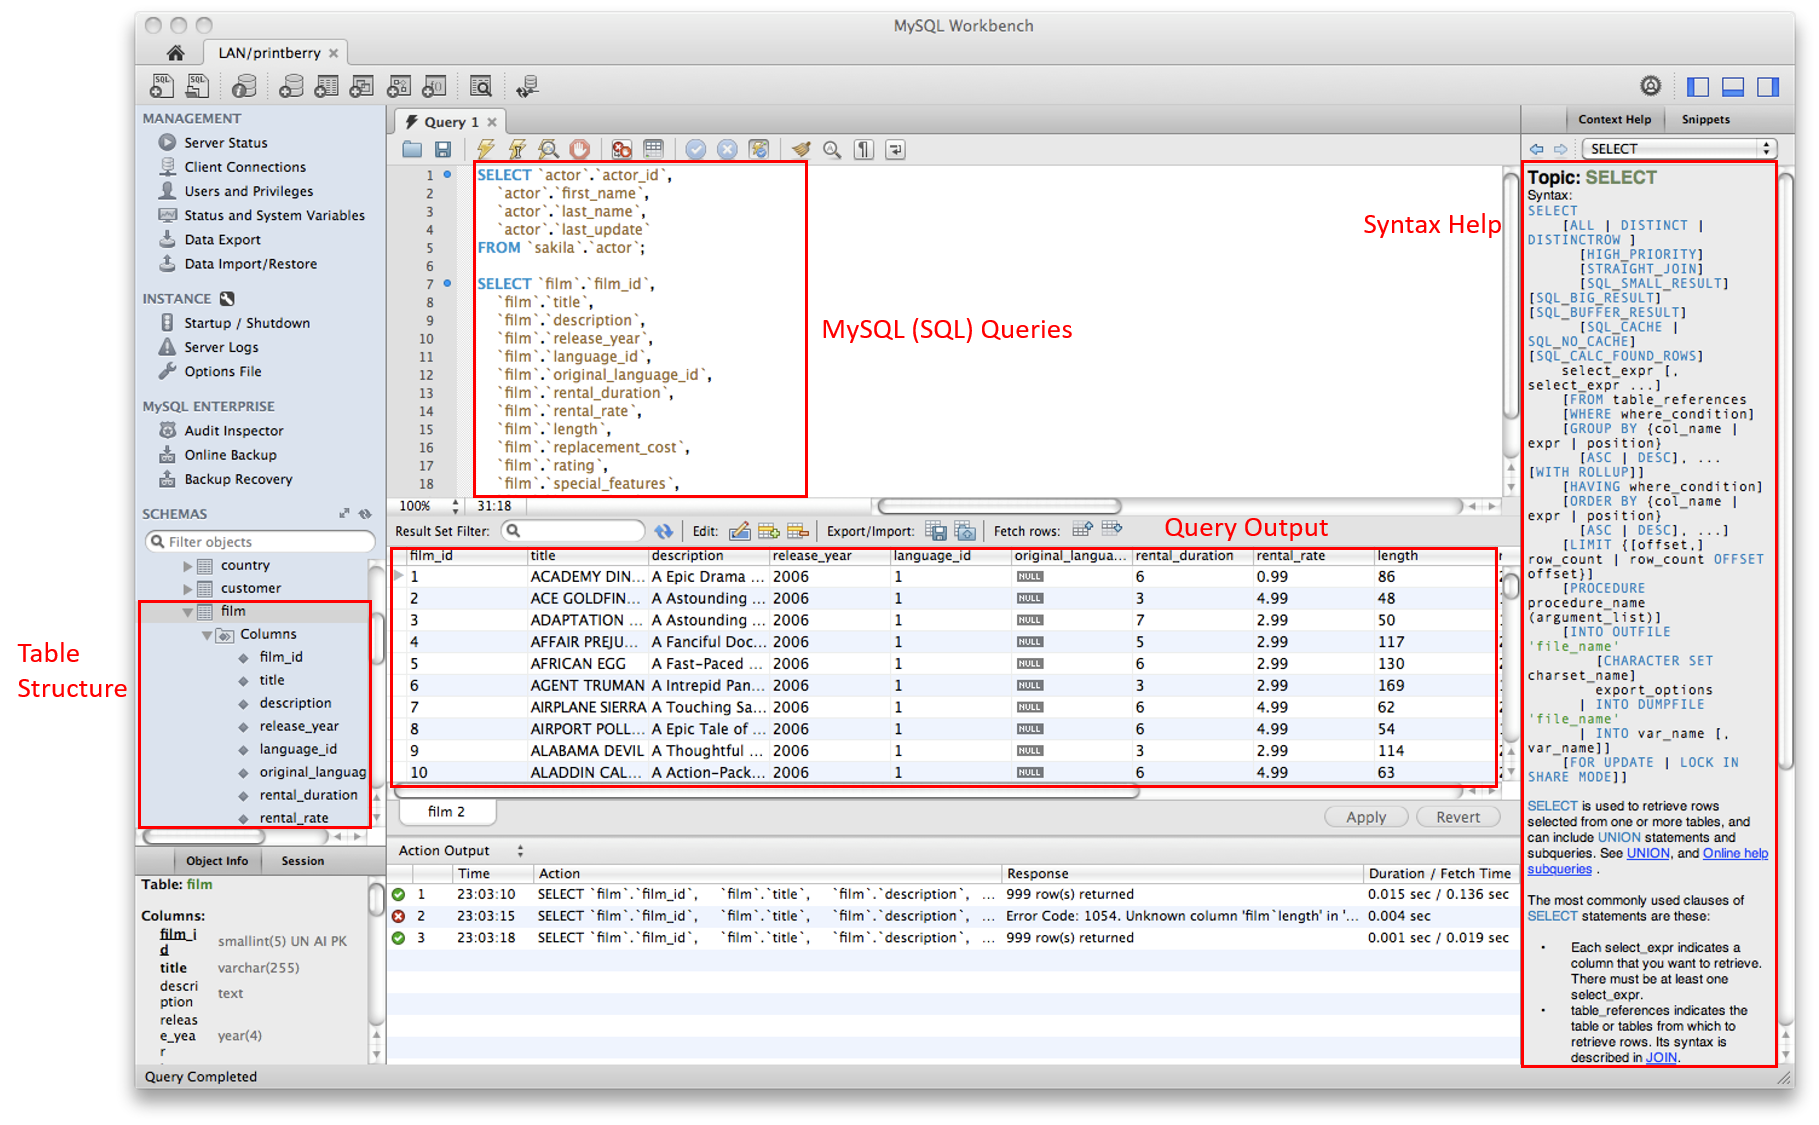
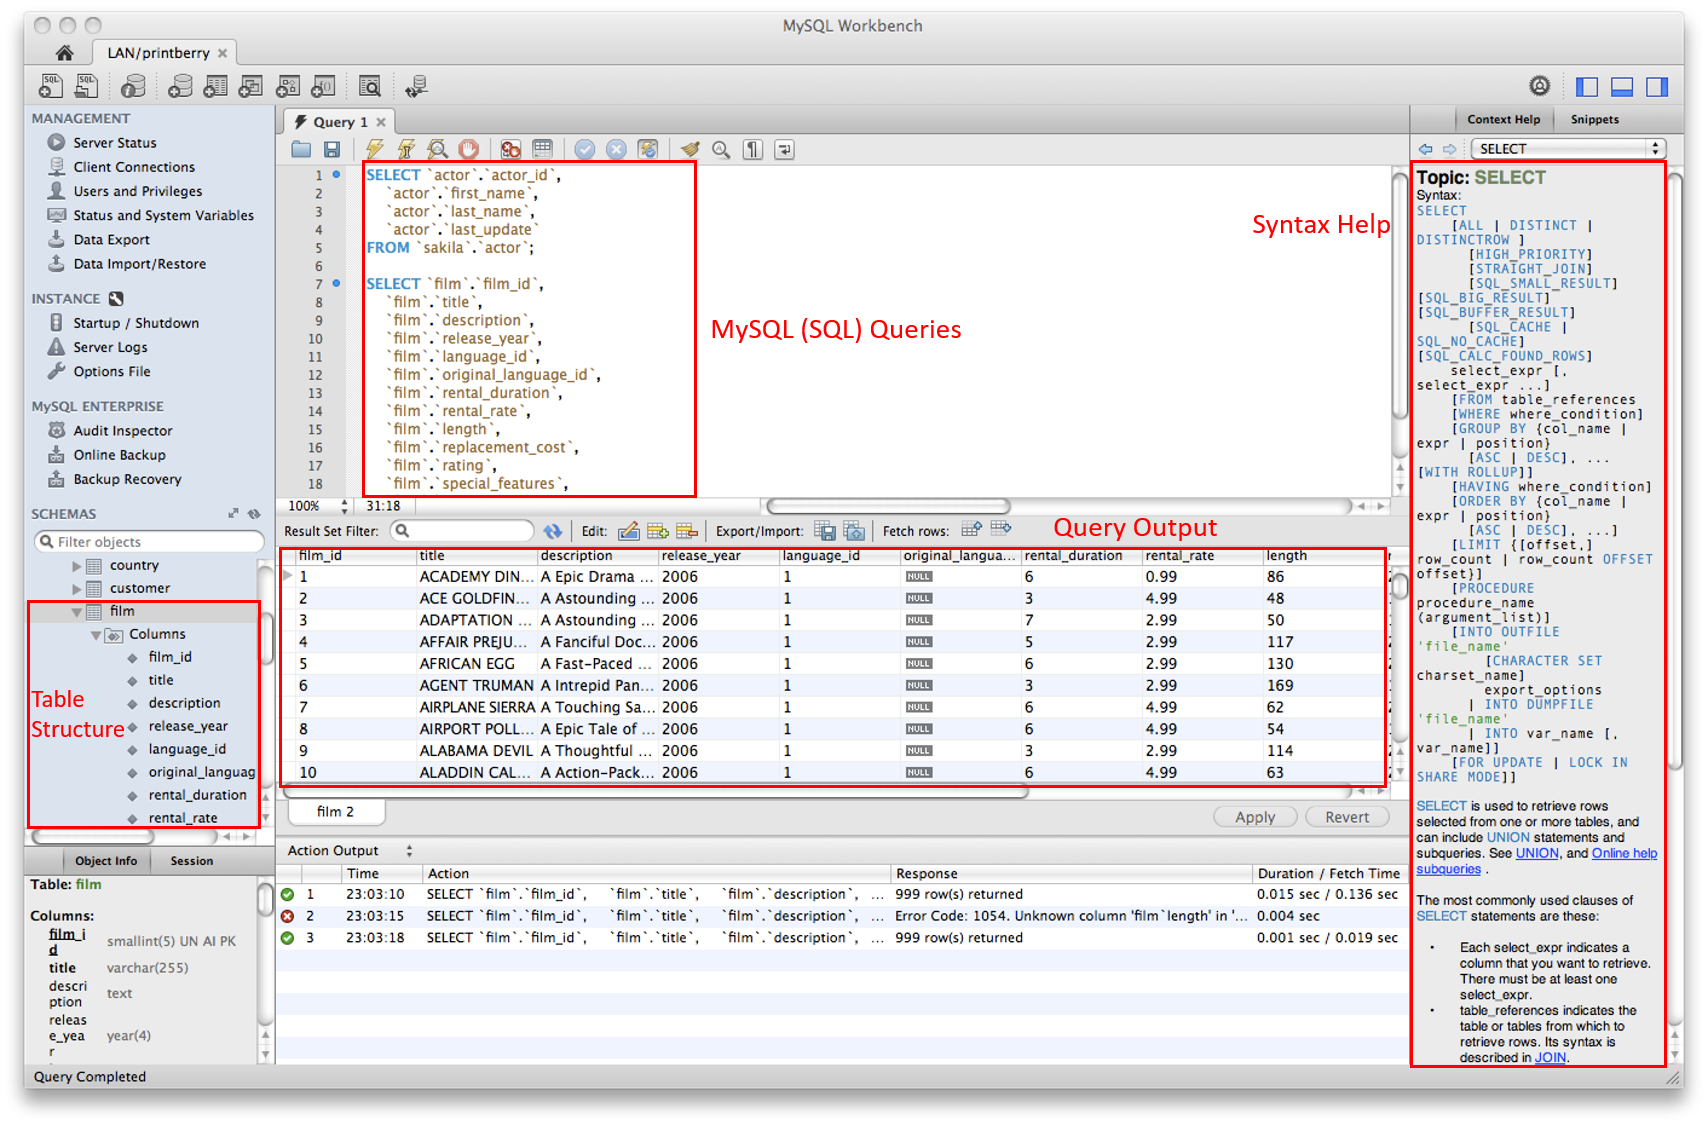
Resize images

Changed region(s): [[0.0, 0.0, 0.993, 0.9956], [0.4034, 0.28, 0.5896, 0.3111], [0.4655, 0.0, 0.5585, 0.0311]]

diff --git a/contents/data/sql/SQL.md b/contents/data/sql/SQL.md
@@ -25,9 +25,10 @@ Rather, RDBMSs %%like MySQL, Oracle, SQL Server and PostgreSQL%% come with an _i
 
 These RDBMSs come with a GUI application, but can be accessed from the command line as well. Figure 1 shows MySQL Workbench GUI software and MySQL in the command line.
 
-![MySQL Workbench](MySQL_Workbench.png "MySQL Workbench GUI Software") ![MySQL CLI](MySQL_cli.png "Running MySQL from the command line")
+<img src="MySQL_Workbench.png" alt="MySQL Workbench GUI Software" width="60%">
+<img src="MySQL_cli.png" alt="Running MySQL from the command line" width="40%">
 
-_Figure 1. MySQL can be accessed using the GUI or command line <sup>[image_source_1](https://www.mysql.com/products/workbench/)</sup> <sup>[image_source_2](https://www.researchgate.net/figure/The-MySQL-command-line-tool_fig5_328093393)</sup>_
+_Figure 1. MySQL can be accessed using the GUI or command line_ <sup>[image_source_1](https://www.mysql.com/products/workbench/)</sup> <sup>[image_source_2](https://www.researchgate.net/figure/The-MySQL-command-line-tool_fig5_328093393)</sup>
 
 ---
 
